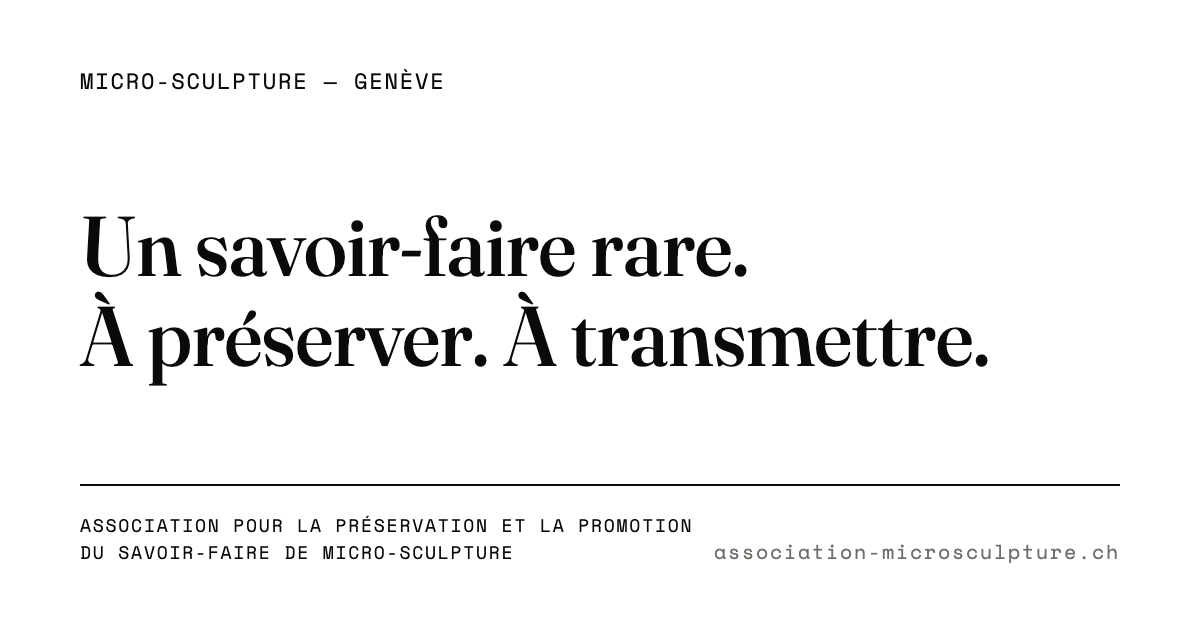
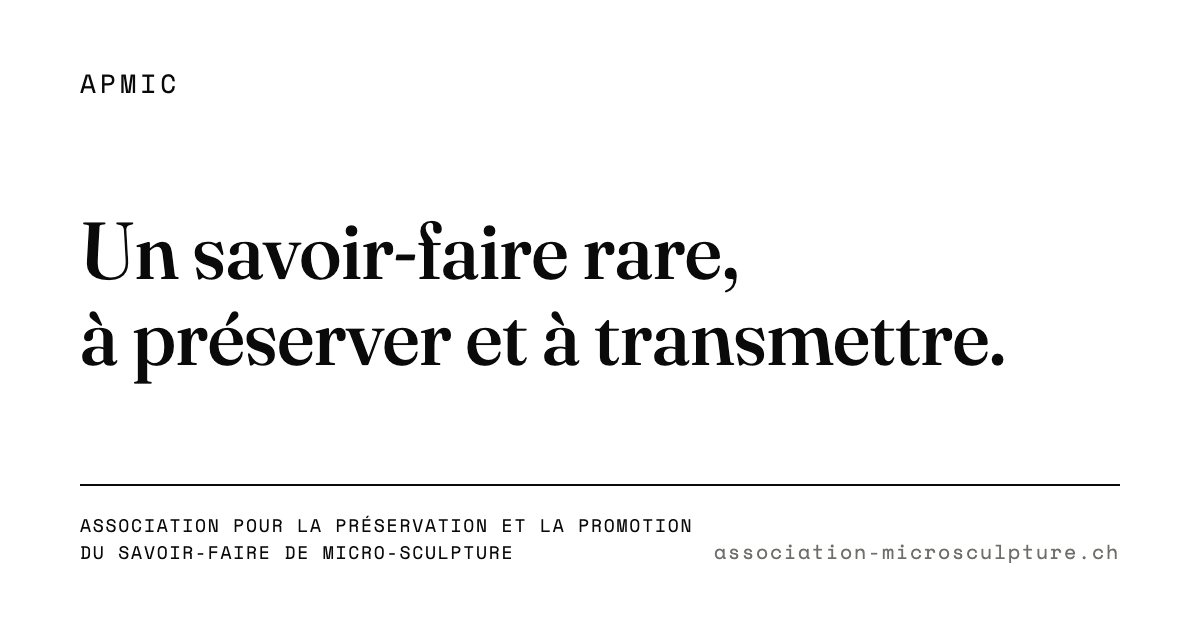
Nouveau titre, APMIC dans la barre, « La micro-sculpture en photo », hommage à Charles Roulin

Changed region(s): [[0.0617, 0.3317, 0.8325, 0.6333], [0.0617, 0.0905, 0.37, 0.1508]]

diff --git a/index.html b/index.html
@@ -11,14 +11,14 @@
 <meta name="theme-color" content="#0A0A0A">
 <meta property="og:type" content="website">
 <meta property="og:locale" content="fr_CH">
-<meta property="og:site_name" content="Micro-sculpture — Genève">
+<meta property="og:site_name" content="APMIC">
 <meta property="og:url" content="https://association-microsculpture.ch/">
-<meta property="og:title" content="Micro-sculpture — Un savoir-faire rare, à préserver, à transmettre">
+<meta property="og:title" content="APMIC — Un savoir-faire rare, à préserver et à transmettre">
 <meta property="og:description" content="Association genevoise à but non lucratif qui préserve, promeut et transmet la micro-sculpture, art séculaire porté à Genève par le maître coutelier Charles Roulin.">
 <meta property="og:image" content="https://association-microsculpture.ch/partage.png">
 <meta property="og:image:width" content="1200">
 <meta property="og:image:height" content="630">
-<meta property="og:image:alt" content="Association pour la préservation et la promotion du savoir-faire de micro-sculpture — Un savoir-faire rare. À préserver. À transmettre.">
+<meta property="og:image:alt" content="Association pour la préservation et la promotion du savoir-faire de micro-sculpture — Un savoir-faire rare, à préserver et à transmettre.">
 <meta name="twitter:card" content="summary_large_image">
 <style>
   @import url('https://fonts.googleapis.com/css2?family=Fraunces:opsz,wght@9..144,400;9..144,500&family=Karla:wght@400;500;600&family=Space+Mono:wght@400;700&display=swap');
@@ -50,6 +50,8 @@
   .form-msg { max-width: 560px; margin: 48px auto 0 auto; padding: 24px; border: 1px solid #0A0A0A; background: #F4F4F2; font-size: 16px; }
   @media (max-width: 600px) { .contact-form .row { grid-template-columns: 1fr; } }
   [id] { scroll-margin-top: 80px; }
+  .hommage { max-width: 820px; margin: 0 auto; padding: 48px 56px; border: 1.5px solid #0A0A0A; background: #F4F4F2; }
+  .hommage p { font-family: 'Fraunces', serif; font-size: 20px; line-height: 1.6; color: #33332F; margin: 0; }
 
   /* Photos */
   .banniere { margin: 0; border-top: 1px solid #0A0A0A; border-bottom: 1px solid #0A0A0A; background: #8A857F; }
@@ -83,16 +85,23 @@
   .v-suiv { right: 16px; top: 50%; transform: translateY(-50%); }
   .nav-burger { display: none; background: none; border: 1.5px solid #0A0A0A; padding: 8px 14px; font-size: 12px; color: #0A0A0A; cursor: pointer; }
 
-  /* Téléphones et petites tablettes (les !important priment sur les styles en ligne) */
-  @media (max-width: 760px) {
+  /* Menu repliable : jusqu'aux tablettes, le menu complet ne tient pas sur une ligne (les !important priment sur les styles en ligne) */
+  @media (max-width: 1024px) {
     .nav { padding: 16px 6vw !important; }
     .nav-burger { display: block; }
     .nav-links { display: none !important; position: absolute; top: 100%; left: 0; right: 0; flex-direction: column; align-items: stretch !important; gap: 0 !important; background: #FFFFFF; border-bottom: 1px solid #0A0A0A; padding: 8px 6vw 20px 6vw; font-size: 16px !important; }
     .nav-links.open { display: flex !important; }
     .nav-links .nav-link { padding: 14px 0; border-bottom: 1px solid #E4E4E0; }
     .nav-links .btn { margin-top: 16px; text-align: center; padding: 13px 20px !important; font-size: 15px !important; }
+  }
+
+  /* Téléphones et petites tablettes */
+  @media (max-width: 760px) {
     .hero { padding-top: 56px !important; }
     .hero-title { font-size: 40px !important; }
+    .hero-asso { font-size: 14px !important; }
+    .hommage { padding: 32px 24px; }
+    .hommage p { font-size: 17px; }
     h2 { font-size: 26px !important; }
     .grid-12 { grid-template-columns: 1fr !important; gap: 14px !important; }
     .grid-12 > div { grid-column: auto !important; }
@@ -115,11 +124,11 @@
 
   <!-- NAV -->
   <div class="nav" style="width: 100%; box-sizing: border-box; padding: 22px 6vw; display: flex; justify-content: space-between; align-items: center; position: sticky; top: 0; background: rgba(255,255,255,0.94); backdrop-filter: blur(6px); z-index: 10; border-bottom: 1px solid #0A0A0A;">
-    <div class="mono" style="font-size: 13px;">Micro-sculpture — Genève</div>
+    <div class="mono" style="font-size: 15px; letter-spacing: 0.14em;" title="Association pour la préservation et la promotion du savoir-faire de micro-sculpture">APMIC</div>
     <button type="button" class="nav-burger mono" id="nav-toggle" aria-expanded="false" aria-controls="nav-links">Menu</button>
     <div class="nav-links" id="nav-links" style="display: flex; gap: 30px; align-items: center; font-size: 14px;">
       <a href="#histoire" class="nav-link">Histoire</a>
-      <a href="#oeuvres" class="nav-link">Œuvres</a>
+      <a href="#oeuvres" class="nav-link">La micro-sculpture en photo</a>
       <a href="#reconnaissance" class="nav-link">Reconnaissance</a>
       <a href="#actions" class="nav-link">Actions</a>
       <a href="#association" class="nav-link">L'association</a>
@@ -130,8 +139,8 @@
 
   <!-- HERO -->
   <div class="hero" style="width: 100%; box-sizing: border-box; padding: 100px 6vw 0 6vw;">
-    <div class="mono" style="font-size: 13px; margin-bottom: 26px;">Association pour la préservation et la promotion du savoir-faire de micro-sculpture</div>
-    <h1 class="hero-title" style="font-size: 64px; line-height: 1.08; max-width: 16ch;">Un savoir-faire rare.<br>À préserver. À transmettre.</h1>
+    <div class="mono hero-asso" style="font-size: 18px; line-height: 1.5; margin-bottom: 26px;">Association pour la préservation et la promotion du savoir-faire de micro-sculpture</div>
+    <h1 class="hero-title" style="font-size: 64px; line-height: 1.08; max-width: 18ch;">Un savoir-faire rare, à&nbsp;préserver et à&nbsp;transmettre.</h1>
     <p style="font-size: 18px; max-width: 52ch; margin: 30px 0 36px 0; color: #33332F;">La micro-sculpture est un art séculaire qui a pris des formes variées selon les régions du monde et les époques, ayant trouvé à Genève un nouveau souffle. Notre association œuvre à préserver, promouvoir et faire vivre ce savoir-faire.</p>
     <div style="display: flex; gap: 16px; margin-bottom: 60px; flex-wrap: wrap;">
       <a href="#association" class="btn">Découvrir l'association</a>
@@ -164,10 +173,10 @@
   <!-- OEUVRES -->
   <div id="oeuvres" style="width: 100%; box-sizing: border-box; padding: 70px 6vw; border-bottom: 1px solid #0A0A0A;">
     <div style="max-width: 1200px; margin: 0 auto;">
-      <div class="idx" style="margin-bottom: 14px;">02 — Œuvres</div>
+      <div class="idx" style="margin-bottom: 14px;">02 — La micro-sculpture en photo</div>
       <h2 style="font-size: 30px; margin-bottom: 16px;">Quelques pièces</h2>
       <p style="font-size: 17px; color: #33332F; max-width: 70ch; margin-bottom: 40px;">Lames, manches et platines sculptés : paysages, scènes animalières et portraits, à l'échelle du millimètre.</p>
-      <div class="galerie" id="galerie" tabindex="0" role="region" aria-roledescription="carrousel" aria-label="Œuvres, faites défiler pour voir les autres photos">
+      <div class="galerie" id="galerie" tabindex="0" role="region" aria-roledescription="carrousel" aria-label="La micro-sculpture en photo, faites défiler pour voir les autres photos">
         <button type="button" class="ouvrir-photo" data-grande="images/oeuvre-dragon-1800.jpg"><img src="images/oeuvre-dragon-800.jpg" width="800" height="800" loading="lazy" alt="Lame ajourée d'un dragon aux écailles finement ciselées crachant des flammes, manche en bois pourpre."></button>
         <button type="button" class="ouvrir-photo" data-grande="images/oeuvre-bouquetins-1800.jpg"><img src="images/oeuvre-bouquetins-800.jpg" width="800" height="533" loading="lazy" alt="Lame ajourée de trois bouquetins sur des rochers, à côté d'un arbre, manche en bois sombre."></button>
         <button type="button" class="ouvrir-photo" data-grande="images/oeuvre-voiliers-1800.jpg"><img src="images/oeuvre-voiliers-800.jpg" width="606" height="800" loading="lazy" alt="Détail d'une lame ajourée : deux voiliers sur l'eau, des roseaux, un arbre et des oiseaux, manche bleu."></button>
@@ -295,6 +304,15 @@
           <h3 style="font-size: 17px; margin-bottom: 8px;"><a href="https://www.ugomighali.com/artisan" target="_blank" rel="noopener">Hommage à Charles Roulin</a></h3>
         </div>
       </div>
+    </div>
+  </div>
+
+  <!-- HOMMAGE -->
+  <div id="hommage" style="width: 100%; box-sizing: border-box; padding: 90px 6vw 0 6vw;">
+    <div class="hommage">
+      <div class="idx" style="margin-bottom: 18px;">Hommage</div>
+      <h2 style="font-size: 32px; margin-bottom: 22px;">Hommage à Charles Roulin</h2>
+      <p>Nous tenons à rendre hommage à Charles Roulin, maître coutelier genevois et précurseur de la micro-sculpture telle qu'elle vit aujourd'hui à Genève. Pendant plus de quarante ans, il a fait de la lame et du manche de ses couteaux de véritables scènes miniatures, et développé une signature artistique reconnaissable entre toutes. Il a porté cet art dans les salons et les expositions du monde entier, avec une passion qui nous inspire. Si ce savoir-faire existe encore, c'est d'abord grâce à lui&nbsp;: notre association s'engage à prolonger son œuvre, en le préservant et en le transmettant.</p>
     </div>
   </div>
 

diff --git a/mentions-legales.html b/mentions-legales.html
@@ -30,7 +30,7 @@
 <body>
 
   <div class="nav">
-    <a href="index.html" class="mono" style="font-size: 13px;">Micro-sculpture — Genève</a>
+    <a href="index.html" class="mono" style="font-size: 15px; letter-spacing: 0.14em;">APMIC</a>
     <a href="index.html">← Retour au site</a>
   </div>
 
